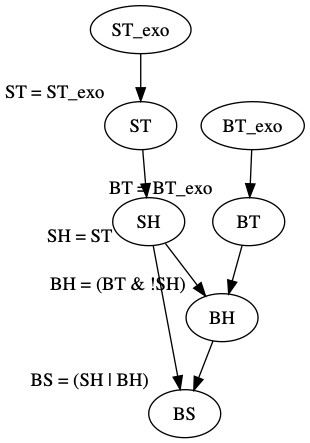
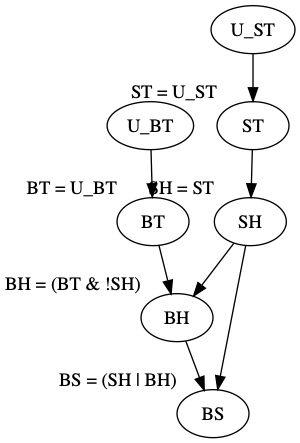
Major restructuring
Major restructuring of project files and directories.

diff --git a/examples/forest_fire_disjunctive.py b/examples/forest_fire_disjunctive.py
@@ -1,0 +1,21 @@
+from actualcausality.boolean_combinations import Atom, Disjunction, Negation
+from actualcausality.hp_definition import CausalModel, CausalSetting, Variable, find_actual_causes, CausalFormula
+u_l, u_md = Variable("U_L"), Variable("U_MD")
+ff, l, md = Variable("FF"), Variable("L"), Variable("MD")
+exogenous_variables = {u_l, u_md}
+structural_equations = {
+    ff: Disjunction(Atom(l), Atom(md)),
+    l: Atom(u_l),
+    md: Atom(u_md)
+}
+causal_model = CausalModel(exogenous_variables, structural_equations)
+context = {u_l: True, u_md: True}
+causal_setting = CausalSetting(causal_model, context)
+event = Atom(ff)
+find_actual_causes(event, causal_setting, expected_causes=[{ff: True}, {l: True, md: True}])
+
+causal_model.causal_network().draw("forest_fire_disjunctive.png", prog="dot")  # prog=neato|dot|twopi|circo|fdp|nop
+
+assert CausalFormula({md: False}, event).entailed_by(causal_setting)  # (Md, (1, 1)) |= [MD ← 0](FF = 1) example from Page 21 [Halpern, 2016]
+assert CausalFormula({l: False}, event).entailed_by(causal_setting)  # (Md, (1, 1)) |= [L ← 0](FF = 1) example from Page 21 [Halpern, 2016]
+assert CausalFormula({l: False, md: False}, Negation(event)).entailed_by(causal_setting)  # (Md, (1, 1)) |= [L ← 0; MD ← 0](FF = 0) example from Page 21 [Halpern, 2016]

diff --git a/examples/rock_throwing.py b/examples/rock_throwing.py
@@ -1,0 +1,19 @@
+from actualcausality.boolean_combinations import Atom, Conjunction, Negation, Disjunction
+from actualcausality.hp_definition import Variable, CausalSetting, find_actual_causes, CausalModel
+u_st, u_bt = Variable("U_ST"), Variable("U_BT")
+st, bt, sh, bh, bs = Variable("ST"), Variable("BT"), Variable("SH"), Variable("BH"), Variable("BS")
+exogenous_variables = {u_st, u_bt}
+structural_equations = {
+    st: Atom(u_st),
+    bt: Atom(u_bt),
+    sh: Atom(st),
+    bh: Conjunction(Atom(bt), Negation(Atom(sh))),
+    bs: Disjunction(Atom(sh), Atom(bh))
+}
+causal_model = CausalModel(exogenous_variables, structural_equations)
+context = {u_st: True, u_bt: True}
+causal_setting = CausalSetting(causal_model, context)
+event = Atom(bs)
+find_actual_causes(event, causal_setting, expected_causes=[{st: True}, {sh: True}, {bs: True}])
+
+causal_model.causal_network().draw("rock_throwing.png", prog="dot")  # prog=neato|dot|twopi|circo|fdp|nop

diff --git a/examples/forest_fire_conjunctive.py b/examples/forest_fire_conjunctive.py
@@ -1,0 +1,17 @@
+from actualcausality.boolean_combinations import Atom, Conjunction
+from actualcausality.hp_definition import CausalModel, CausalSetting, Variable, find_actual_causes
+u_l, u_md = Variable("U_L"), Variable("U_MD")
+ff, l, md = Variable("FF"), Variable("L"), Variable("MD")
+exogenous_variables = {u_l, u_md}
+structural_equations = {
+    ff: Conjunction(Atom(l), Atom(md)),
+    l: Atom(u_l),
+    md: Atom(u_md)
+}
+causal_model = CausalModel(exogenous_variables, structural_equations)
+context = {u_l: True, u_md: True}
+causal_setting = CausalSetting(causal_model, context)
+event = Atom(ff)
+find_actual_causes(event, causal_setting, expected_causes=[{ff: True}, {l: True}, {md: True}])
+
+causal_model.causal_network().draw("forest_fire_conjunctive.png", prog="dot")  # prog=neato|dot|twopi|circo|fdp|nop

diff --git a/actualcausality/hp_definition.py b/actualcausality/hp_definition.py
@@ -2,8 +2,8 @@ from copy import copy
 
 from pygraphviz import AGraph
 
-from boolean_combinations import Verum, Falsum, assignments2conjunction, Negation
-from utils import format_dict, powerset_dict, powerset_set
+from actualcausality.boolean_combinations import assignments2conjunction, Negation, Verum, Falsum
+from actualcausality.utils import format_dict, powerset_dict, powerset_set
 
 
 class Variable:

diff --git a/README.md b/README.md
@@ -1,4 +1,4 @@
-# actual-causality
+# PyActualCausality
 A simple Python implementation of the (modified) Halpern-Pearl definition of actual causality.
 
 *Note that causal models are restricted to those with Boolean variables and structural equations are restricted to propositional formulas.*
@@ -7,14 +7,14 @@ A simple Python implementation of the (modified) Halpern-Pearl definition of act
 
 ### Forest Fire
 This example involves three endogenous variables: a forest fire `FF`, a lightning strike `L`, and a match dropped by an arsonist `MD`.
-The values of these variables are defined in two different causal models involving two exogenous variables `U_L` and `U_MD`.
-In the conjunctive model the structural equations are defined as `FF = (L & MD)`, `L = U_L`, and `MD = U_MD`.
-In the disjunctive model the structural equations are defined as `FF = (L | MD)`, `L = U_L`, and `MD = U_MD`.
+The values of these variables are defined in two different causal models, known as the conjunctive and disjunctive models, based on two exogenous variables `U_L` and `U_MD`.
 
 #### Conjunctive Model
+In the conjunctive model the structural equations are defined as `FF = (L & MD)`, `L = U_L`, and `MD = U_MD`.
+
 ```python
->>> from boolean_combinations import Atom, Conjunction
->>> from hp_definition import CausalModel, CausalSetting, Variable, find_actual_causes
+>>> from actualcausality.boolean_combinations import Atom, Conjunction
+>>> from actualcausality.hp_definition import CausalModel, CausalSetting, Variable, find_actual_causes
 >>> u_l, u_md = Variable("U_L"), Variable("U_MD")
 >>> ff, l, md = Variable("FF"), Variable("L"), Variable("MD")
 >>> exogenous_variables = {u_l, u_md}
@@ -25,18 +25,20 @@ In the disjunctive model the structural equations are defined as `FF = (L | MD)`
 ... }
 >>> causal_model = CausalModel(exogenous_variables, structural_equations)
 >>> context = {u_l: True, u_md: True}
->>> casual_setting = CausalSetting(causal_model, context)
+>>> causal_setting = CausalSetting(causal_model, context)
 >>> event = Atom(ff)
->>> find_actual_causes(event, casual_setting)
-[{L: True}, {FF: True}, {MD: True}]
+>>> find_actual_causes(event, causal_setting, expected_causes=[{ff: True}, {l: True}, {md: True}])
+[{FF: True}, {L: True}, {MD: True}]
 ```
 
 ![](examples/disjunctive_forest_fire.png)
 
 #### Disjunctive Model
+In the disjunctive model the structural equations are defined as `FF = (L | MD)`, `L = U_L`, and `MD = U_MD`.
+
 ```python
->>> from boolean_combinations import Atom, Disjunction
->>> from hp_definition import CausalModel, CausalSetting, Variable, find_actual_causes
+>>> from actualcausality.boolean_combinations import Atom, Disjunction, Negation
+>>> from actualcausality.hp_definition import CausalModel, CausalSetting, Variable, find_actual_causes, CausalFormula
 >>> u_l, u_md = Variable("U_L"), Variable("U_MD")
 >>> ff, l, md = Variable("FF"), Variable("L"), Variable("MD")
 >>> exogenous_variables = {u_l, u_md}
@@ -47,36 +49,36 @@ In the disjunctive model the structural equations are defined as `FF = (L | MD)`
 ... }
 >>> causal_model = CausalModel(exogenous_variables, structural_equations)
 >>> context = {u_l: True, u_md: True}
->>> casual_setting = CausalSetting(causal_model, context)
+>>> causal_setting = CausalSetting(causal_model, context)
 >>> event = Atom(ff)
->>> find_actual_causes(event, casual_setting)
-[{FF: True}, {MD: True, L: True}]
+>>> find_actual_causes(event, causal_setting, expected_causes=[{ff: True}, {l: True, md: True}])
+[{MD: True, L: True}, {FF: True}]
 ```
 
 ![](examples/conjunctive_forest_fire.png)
 
 ### Rock Throwing
 This example involves five endogenous variables: Sally throws a rock `ST`, Billy throws a rock `BT`, Sally hits the bottle `SH`, Billy hits the bottle `BH`, and the bottle shatters `BS`.
-The values of these variables are defined in a causal model involving two exogenous variables `ST_exo` and `BT_exo` where the structural equations are defined as `ST = ST_exo`, `BT = BT_exo`, `SH = ST`, `BH = (BT & !SH)`, and `BS = (SH | BH)`.
+The values of these variables are defined in a causal model based on two exogenous variables `U_ST` and `U_BT` where the structural equations are defined as `ST = U_ST`, `BT = U_BT`, `SH = ST`, `BH = (BT & !SH)`, and `BS = (SH | BH)`.
 
 ```python
->>> from boolean_combinations import Atom, Conjunction, Disjunction, Negation
->>> from hp_definition import CausalModel, CausalSetting, Variable, find_actual_causes
->>> st_exo, bt_exo = Variable("ST_exo"), Variable("BT_exo")
+>>> from actualcausality.boolean_combinations import Atom, Conjunction, Negation, Disjunction
+>>> from actualcausality.hp_definition import Variable, CausalSetting, find_actual_causes, CausalModel
+>>> u_st, u_bt = Variable("U_ST"), Variable("U_BT")
 >>> st, bt, sh, bh, bs = Variable("ST"), Variable("BT"), Variable("SH"), Variable("BH"), Variable("BS")
->>> exogenous_variables = {st_exo, bt_exo}
+>>> exogenous_variables = {u_st, u_bt}
 >>> structural_equations = {
-...     st: Atom(st_exo),
-...     bt: Atom(bt_exo),
+...     st: Atom(u_st),
+...     bt: Atom(u_bt),
 ...     sh: Atom(st),
 ...     bh: Conjunction(Atom(bt), Negation(Atom(sh))),
 ...     bs: Disjunction(Atom(sh), Atom(bh))
 ... }
 >>> causal_model = CausalModel(exogenous_variables, structural_equations)
->>> context = {st_exo: True, bt_exo: True}
->>> casual_setting = CausalSetting(causal_model, context)
+>>> context = {u_st: True, u_bt: True}
+>>> causal_setting = CausalSetting(causal_model, context)
 >>> event = Atom(bs)
->>> find_actual_causes(event, casual_setting)
+>>> find_actual_causes(event, causal_setting, expected_causes=[{st: True}, {sh: True}, {bs: True}])
 [{SH: True}, {ST: True}, {BS: True}]
 ```
 
